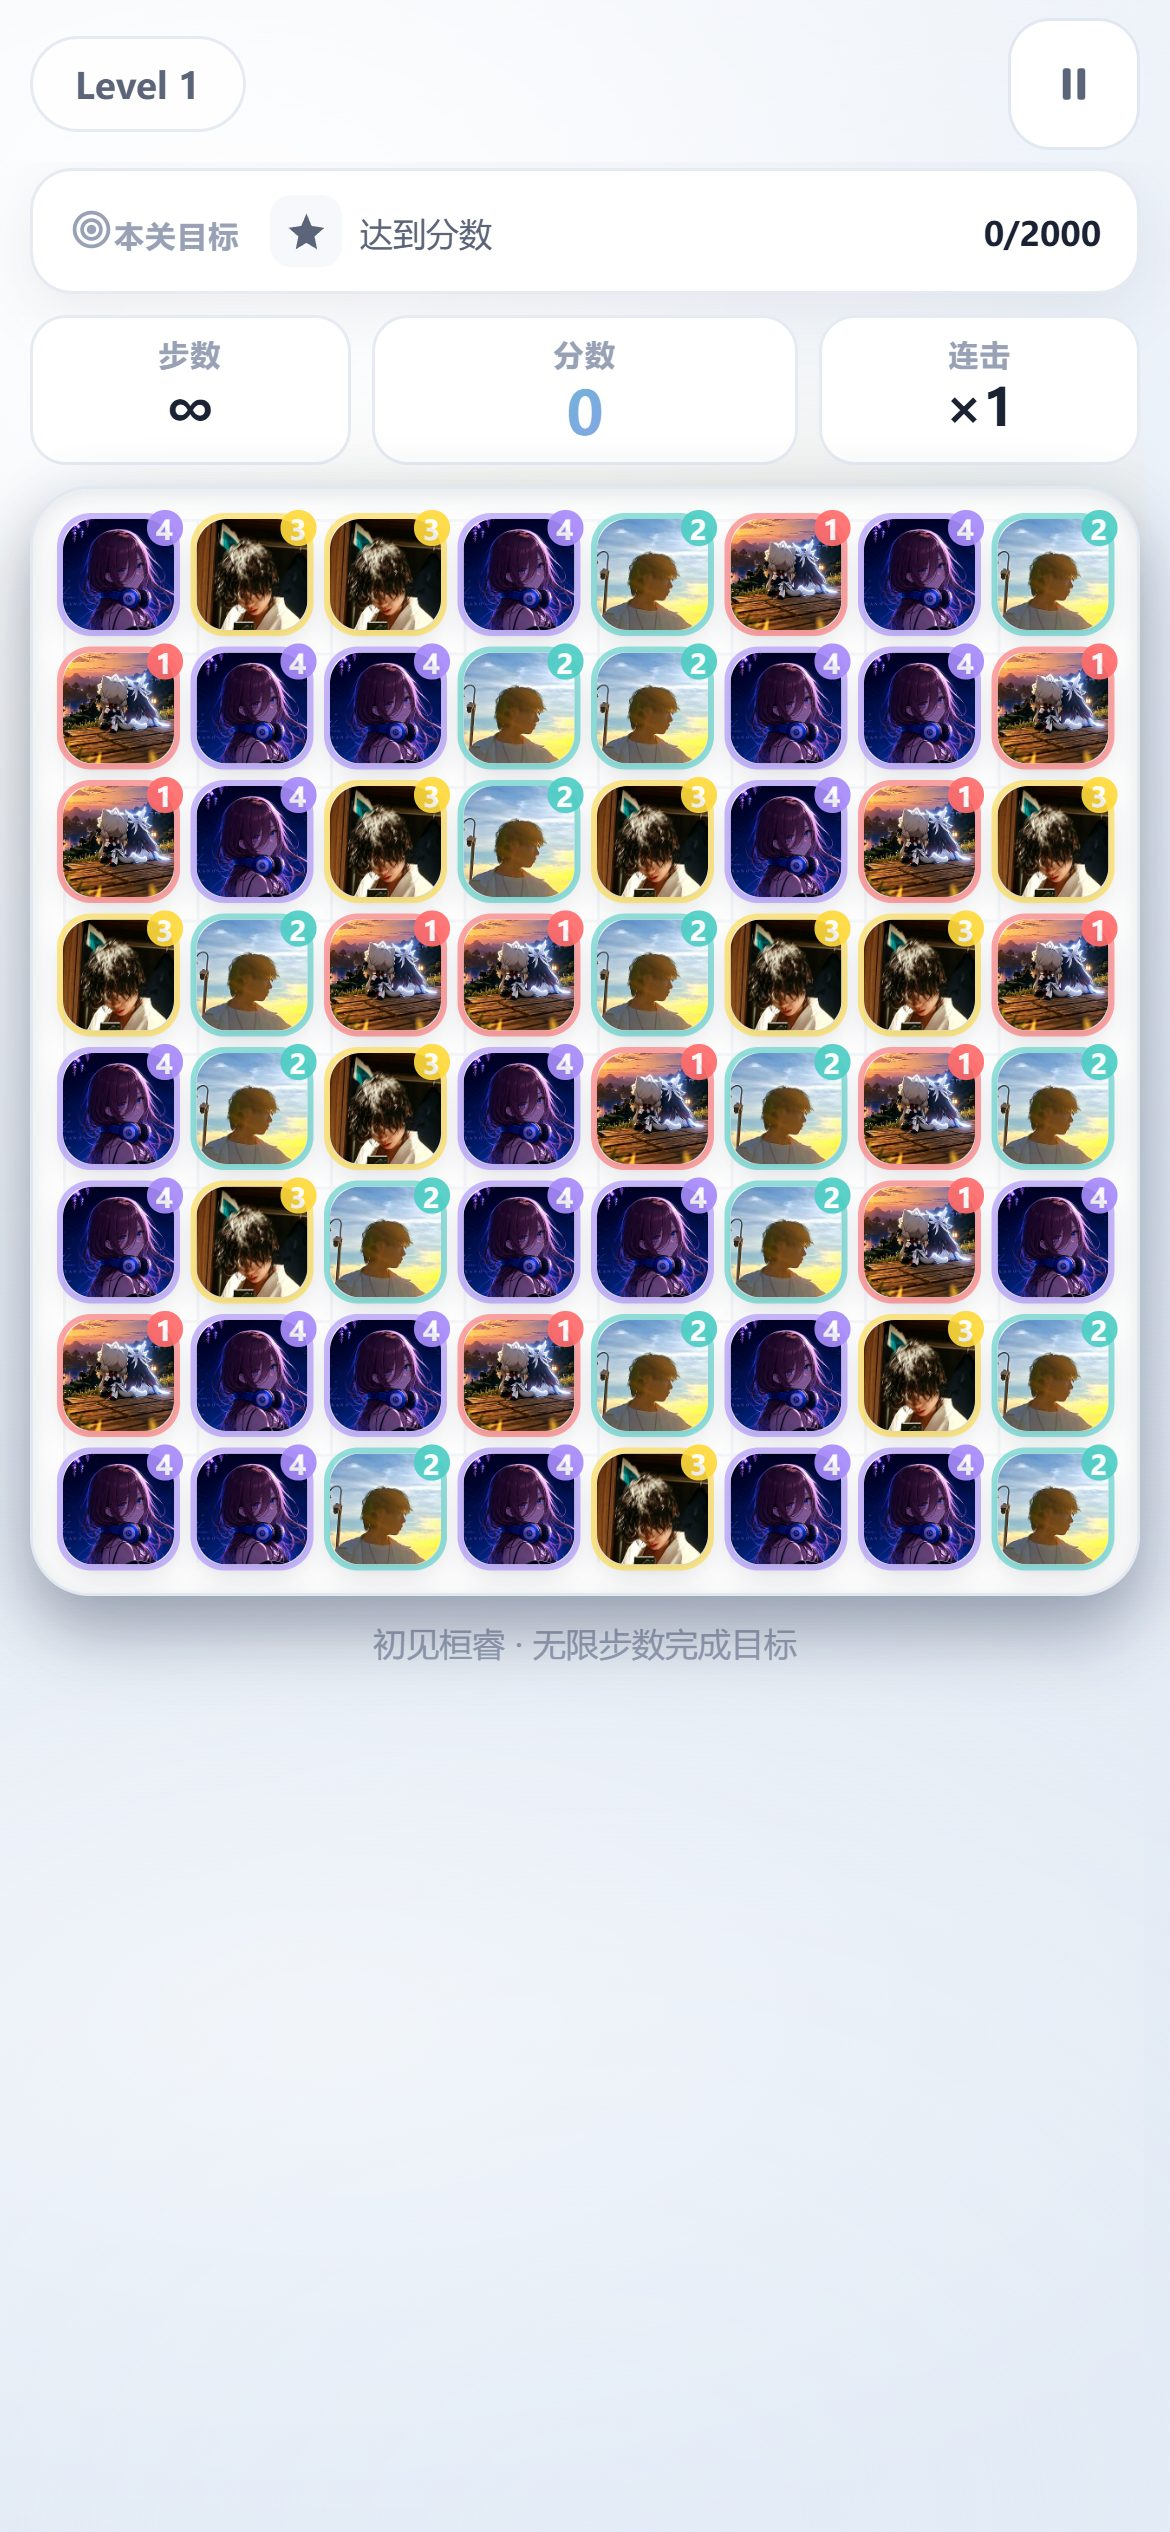
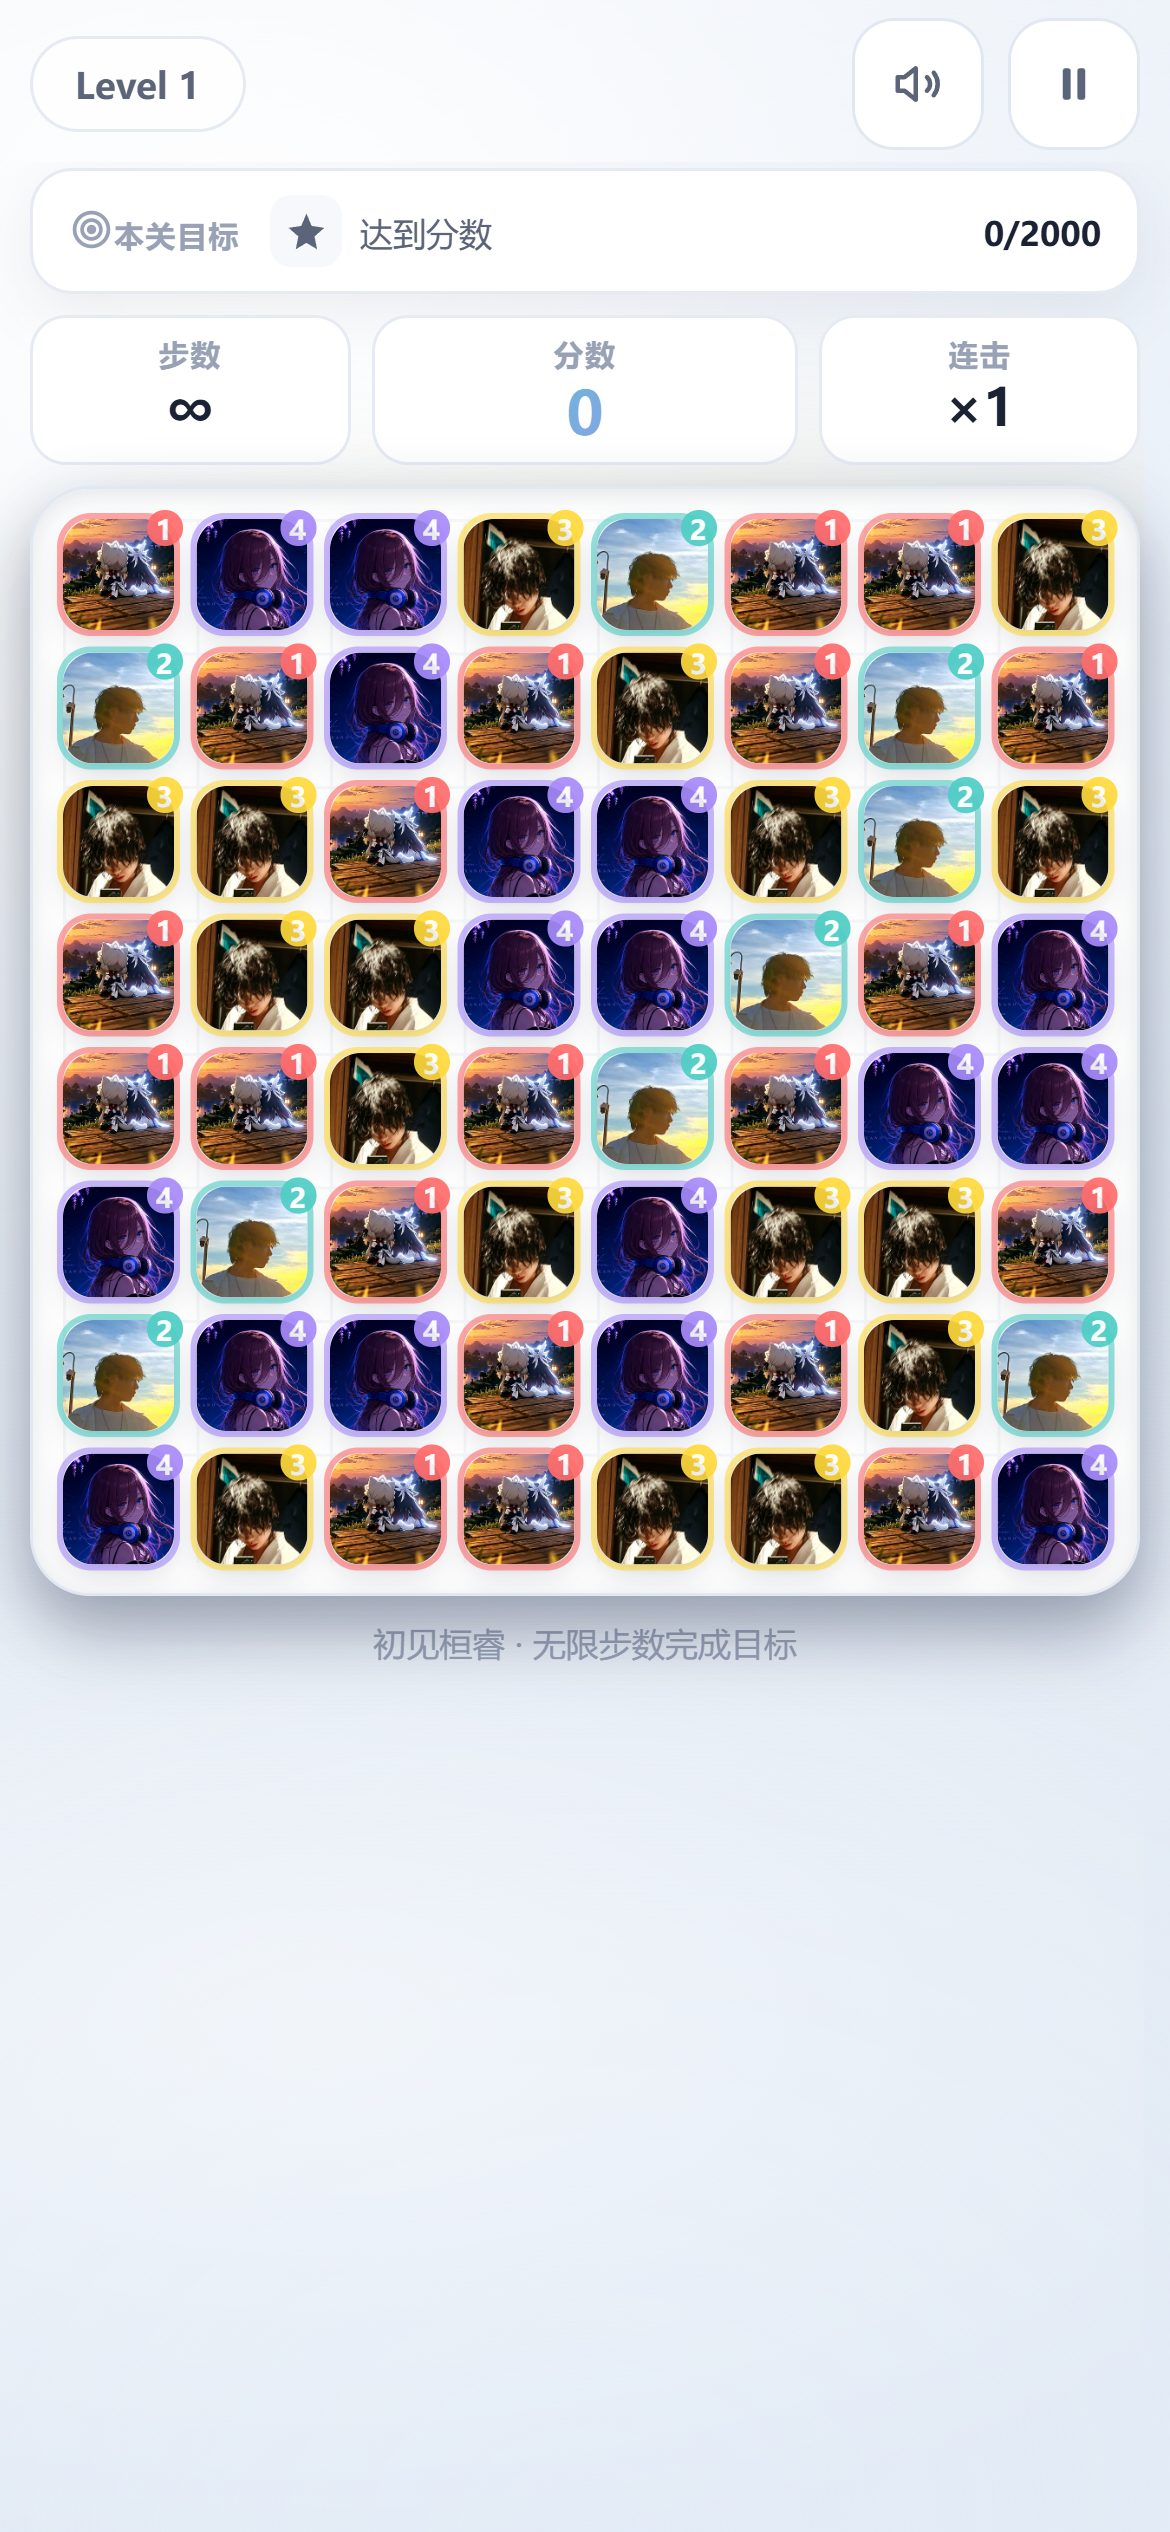
docs: 更新README截图至最新版 / refresh readme screenshots
- 5张截图更新至v2.23(动漫主题/新布局/音量按钮)
- 截图脚本自动压缩png->jpg

Changed region(s): [[0.0308, 0.1872, 0.9538, 0.624], [0.7692, 0.0312, 0.8, 0.0624]]

diff --git a/tools/test_shots.js b/tools/test_shots.js
@@ -28,6 +28,8 @@ srv.listen(8254,async()=>{
     await p.click('#menuLevels');await p.waitForTimeout(600);
     await p.screenshot({path:'docs/images/screenshot-levels.png'});
     await b.close();srv.close();
+    // 自动压缩 png -> jpg
+    try{ require('child_process').execSync('python - <<"PY"\nfrom PIL import Image\nfrom pathlib import Path\nfor f in sorted(Path("docs/images").glob("screenshot-*.png")):\n    im=Image.open(f).convert("RGB")\n    w,h=im.size\n    if w>1280: im=im.resize((1280,int(1280*h/w)),Image.Resampling.LANCZOS)\n    im.save(str(f).replace(".png",".jpg"),"JPEG",quality=82,optimize=True)\n    f.unlink()\nPY',{stdio:'inherit'}); }catch(e){}
     console.log('截图完成');
     require('child_process').execSync('ls -lh docs/images/');
     process.exit(0);
